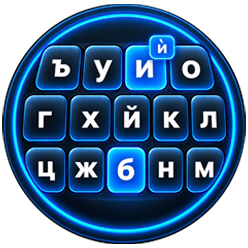
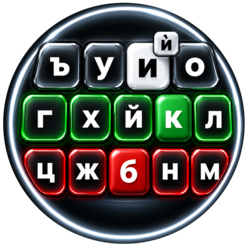
fix problem with extrawide letters on square screens with shfit enabled and generaly on all shapes

diff --git a/data-widget/index.s.layout.js b/data-widget/index.s.layout.js
@@ -11,7 +11,7 @@ export const styles = {
     layout: {
       display: "flex",
       flex_flow: "column wrap",
-      justify_content: "center",
+      justify_content: "start",
       align_items: "center",
       align_content: "center",
       top: h + "",
@@ -24,7 +24,7 @@ export const styles = {
     layout: {
       display: "flex",
       flex_flow: "column",
-      gap: "28",
+      gap: "24",
       width: "100%",
       flex_grow: "1",
       top: 10,
@@ -39,14 +39,14 @@ export const styles = {
       align_items: "center",
       align_content: "center",
       width: "100%",
-      height: "12.5vh",
+      height: "13vh",
       column_gap: "2",
     },
   },
 
   keyButton: {
     radius: 10,
-    normal_color: keyboardButtonColor,
+    normal_color: 0xff0000,
     press_color: keyboardButtonColor,
     layout: {
       height: "100%",
@@ -83,14 +83,14 @@ export const styles = {
 
   shiftImage: {
     layout: {
-      width: "32",
-      height: "32",
+      width: "26",
+      height: "26",
     },
   },
 
   actionKeyContainer: {
     layout: {
-      width: "18%",
+      width: "25%",
       height: "100%",
       display: "flex",
       justify_content: "center",

diff --git a/data-widget/index.js b/data-widget/index.js
@@ -25,7 +25,6 @@ console.log(
   'PX64:',
   px(64)
 )
-
 const longPressCharacters = {
   'и': 'ѝ',
   '.': ',',
@@ -165,10 +164,31 @@ DataWidget({
           ...styles.shiftImage,
         })
       }
+      
+      const wideLetters = ["ю", "ш"]
+      const extraWideLetters = ["ж", "щ"]
+      const hasWideLetters = row.some(letter => wideLetters.includes(letter))
+
       row.forEach((letter) => {
+        let keyWidth = styles.keyButton.layout.width
+
+        if (hasWideLetters) {
+    if (extraWideLetters.includes(letter)) {
+      keyWidth = "10%"
+    } else if (wideLetters.includes(letter)) {
+      keyWidth = "9.5%"
+    } else {
+      keyWidth = "8.1%"
+    }
+  }
+
         const letterWidget = createWidget(widget.BUTTON, {
           parent: rowWidget,
           ...styles.keyButton,
+          layout: {
+            ...styles.keyButton.layout,
+            width: keyWidth,
+          },
           text: letter,
 
           click_func: () => {
